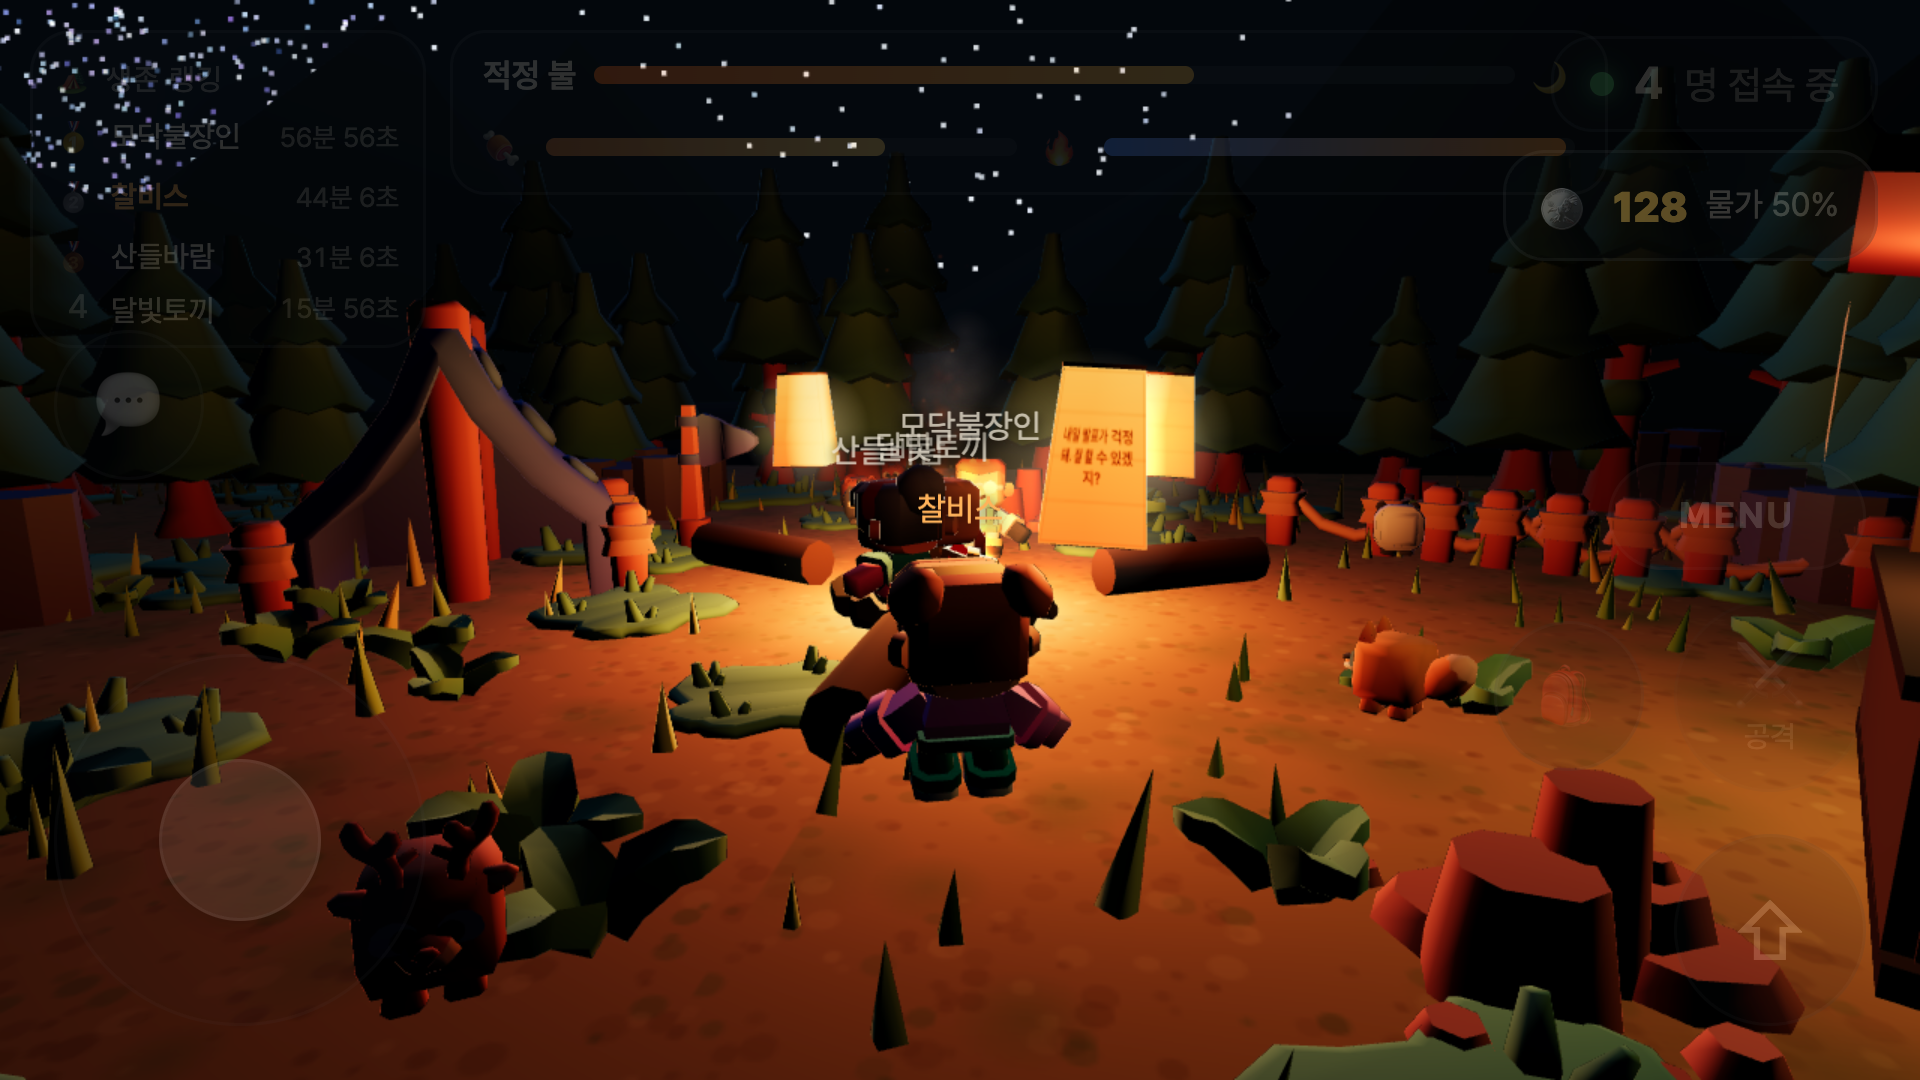
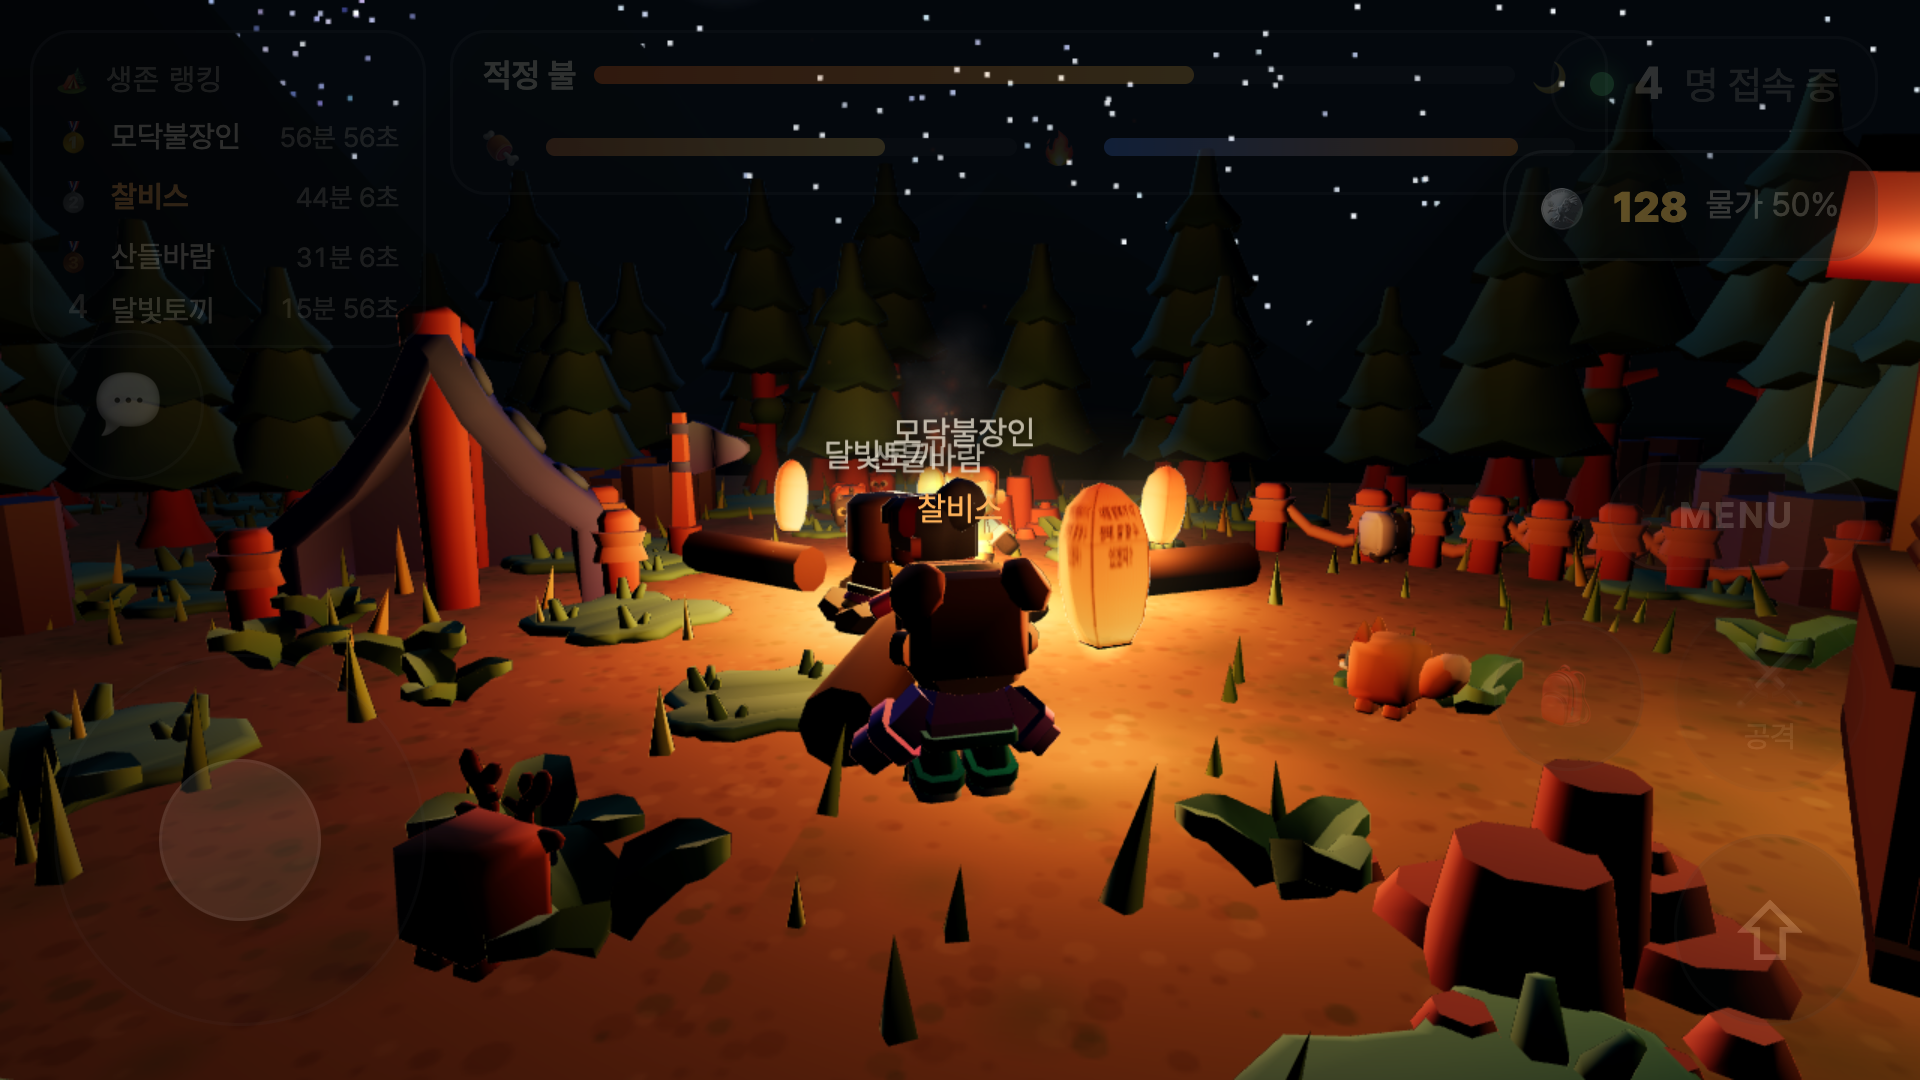
풍등을 핑시 풍등답게: 부푼 네모 윤곽·종이 결·대나무 살·연료 불꽃·들었다 띄우기·바람 흐름

diff --git a/index.html b/index.html
@@ -1348,62 +1348,88 @@ function burnWorry() {
   toast('고민을 풍등에 실어 하늘로 보냈어요 🏮 · 글은 나에게만 보여요', 3500);
 }
 
-// 풍등: 고민 두루마리를 띄우면 따뜻한 등 하나가 흔들리며 하늘로 올라간다(대만 핑시 풍등처럼). 글은 띄운 사람의 등에만 적힌다
+// 풍등: 고민 두루마리를 띄우면 대만 핑시 풍등처럼 네모진 종이 등이 손에서 부풀었다가 천천히 하늘로 올라간다. 글은 띄운 사람의 등에만 적힌다
 const lanterns = [];
+const LANTERN_WIND = new THREE.Vector2(0.09, -0.06); // 숲의 바람(x, z): 호수 쪽으로 살짝 흘러간다
 function lanternTexture(text) {
-  // 원통 UV 가 네 면에 둘러 감기므로 같은 그림을 네 칸에 반복해 어느 면에서 봐도 글이 통째로 보이게 한다
-  const W = 256, H = 320;
+  // 4각 원통(lathe 4분할) UV 가 네 면에 둘러 감기므로 같은 그림을 네 칸에 반복. 아래(불꽃 쪽)가 밝고 위로 갈수록 짙은 주황
+  const W = 256, H = 384;
   const c = document.createElement('canvas'); c.width = W * 4; c.height = H;
   const g = c.getContext('2d');
-  const grd = g.createLinearGradient(0, 0, 0, H); grd.addColorStop(0, '#ffd994'); grd.addColorStop(0.55, '#ffb24d'); grd.addColorStop(1, '#ff8a2a');
+  const grd = g.createLinearGradient(0, 0, 0, H);
+  grd.addColorStop(0, '#b8481a'); grd.addColorStop(0.35, '#e8782a'); grd.addColorStop(0.7, '#ffa43c'); grd.addColorStop(1, '#ffd98a');
   g.fillStyle = grd; g.fillRect(0, 0, W * 4, H);
+  // 종이 결(세로 줄무늬)
+  g.fillStyle = 'rgba(255,255,255,0.05)';
+  for (let x = 0; x < W * 4; x += 14) g.fillRect(x, 0, 6, H);
   let lines = [];
   if (text) {
-    g.font = 'bold 30px "Pretendard", system-ui, sans-serif';
+    g.font = 'bold 34px "Pretendard", system-ui, sans-serif';
     let cur = '';
-    for (const ch of text) { const t = cur + ch; if (ch === '\n' || g.measureText(t).width > 200) { if (cur) lines.push(cur); cur = ch === '\n' ? '' : ch; } else cur = t; }
+    for (const ch of text) { const t = cur + ch; if (ch === '\n' || g.measureText(t).width > 196) { if (cur) lines.push(cur); cur = ch === '\n' ? '' : ch; } else cur = t; }
     if (cur) lines.push(cur);
     lines = lines.slice(0, 6);
   }
   for (let q = 0; q < 4; q++) {
     const ox = q * W;
-    g.strokeStyle = 'rgba(120,60,10,0.22)'; g.lineWidth = 3; g.strokeRect(ox + 6, 6, W - 12, H - 12);
-    for (let i = 1; i < 4; i++) { g.beginPath(); g.moveTo(ox, i * 80); g.lineTo(ox + W, i * 80); g.stroke(); }
+    // 대나무 살: 면 모서리 세로 두 줄 + 위아래 테
+    g.fillStyle = 'rgba(70,32,8,0.55)';
+    g.fillRect(ox, 0, 7, H); g.fillRect(ox + W - 7, 0, 7, H);
+    g.fillRect(ox, H - 10, W, 10); g.fillRect(ox, 0, W, 6);
+    g.fillStyle = 'rgba(70,32,8,0.18)';
+    g.fillRect(ox, H * 0.5, W, 4);
     if (lines.length) {
-      g.fillStyle = '#5a2e0c'; g.textAlign = 'center'; g.textBaseline = 'middle';
-      const y0 = H / 2 - (lines.length - 1) * 19;
-      lines.forEach((l, i) => g.fillText(l, ox + W / 2, y0 + i * 38));
+      g.fillStyle = 'rgba(52,20,6,0.88)'; g.textAlign = 'center'; g.textBaseline = 'middle';
+      const y0 = H * 0.46 - (lines.length - 1) * 21;
+      lines.forEach((l, i) => g.fillText(l, ox + W / 2, y0 + i * 42));
     }
   }
   const tex = new THREE.CanvasTexture(c); tex.colorSpace = THREE.SRGBColorSpace; return tex;
 }
+const lanternProfile = [[0.17, 0], [0.26, 0.16], [0.305, 0.42], [0.3, 0.7], [0.24, 0.9], [0.12, 1.02], [0, 1.06]].map(([r, y]) => new THREE.Vector2(r, y));
 function launchLantern(x, z, text) {
   const tex = lanternTexture(text);
   const g = new THREE.Group();
-  const body = new THREE.Mesh(new THREE.CylinderGeometry(0.2, 0.27, 0.62, 4, 1, true), new THREE.MeshStandardMaterial({ map: tex, emissive: 0xffa040, emissiveMap: tex, emissiveIntensity: 1.1, side: THREE.DoubleSide, transparent: true, roughness: 0.9 }));
-  body.rotation.y = Math.PI / 4; body.position.y = 0.31; g.add(body);
-  const cap = new THREE.Mesh(new THREE.CylinderGeometry(0.2, 0.2, 0.03, 4), mat(0x8a5a2b)); cap.rotation.y = Math.PI / 4; cap.position.y = 0.62; g.add(cap);
-  const ring = new THREE.Mesh(new THREE.TorusGeometry(0.2, 0.012, 6, 4), mat(0x6b4a2b)); ring.rotation.x = Math.PI / 2; ring.rotation.z = Math.PI / 4; g.add(ring);
-  const flame = new THREE.Sprite(new THREE.SpriteMaterial({ map: softTex, color: 0xffb060, transparent: true, opacity: 0.8, blending: THREE.AdditiveBlending, depthWrite: false }));
-  flame.scale.setScalar(0.9); flame.position.y = 0.25; g.add(flame);
-  const light = new THREE.PointLight(0xffa050, 2.5, 7, 2); light.position.y = 0.3; g.add(light);
-  g.scale.setScalar(1.35);
-  g.position.set(x, 1.1, z);
+  const paper = new THREE.MeshStandardMaterial({ map: tex, emissive: 0xffb866, emissiveMap: tex, emissiveIntensity: 0.72, side: THREE.DoubleSide, transparent: true, opacity: 0.97, roughness: 0.95 });
+  const body = new THREE.Mesh(new THREE.LatheGeometry(lanternProfile, 4), paper);
+  body.rotation.y = Math.PI / 4; g.add(body);
+  const frameMat = mat(0x3a2412);
+  const base = new THREE.Mesh(new THREE.TorusGeometry(0.17, 0.009, 5, 4), frameMat); base.rotation.x = Math.PI / 2; base.rotation.z = Math.PI / 4; g.add(base);
+  for (const r of [0, Math.PI / 2]) { const w = new THREE.Mesh(new THREE.BoxGeometry(0.34, 0.007, 0.007), frameMat); w.rotation.y = r + Math.PI / 4; w.position.y = 0.004; g.add(w); }
+  const fuel = new THREE.Mesh(new THREE.BoxGeometry(0.06, 0.035, 0.06), mat(0x1e0f06)); fuel.position.y = 0.022; g.add(fuel);
+  const flame = new THREE.Sprite(new THREE.SpriteMaterial({ map: softTex, color: 0xffd080, transparent: true, opacity: 0.95, blending: THREE.AdditiveBlending, depthWrite: false }));
+  flame.scale.set(0.5, 0.7, 1); flame.position.y = 0.16; g.add(flame);
+  const halo = new THREE.Sprite(new THREE.SpriteMaterial({ map: softTex, color: 0xff9a3a, transparent: true, opacity: 0.32, blending: THREE.AdditiveBlending, depthWrite: false }));
+  halo.scale.setScalar(2.0); halo.position.y = 0.55; g.add(halo);
+  const light = new THREE.PointLight(0xffa050, 3.2, 9, 2); light.position.y = 0.35; g.add(light);
+  g.scale.setScalar(0.5); g.position.set(x, 0.5, z);
+  g.rotation.y = Math.random() * 6.28;
   scene.add(g);
-  lanterns.push({ g, body, flame, light, tex, t: 0, life: 18, vx: (Math.random() - 0.5) * 0.25, vz: (Math.random() - 0.5) * 0.25, seed: Math.random() * 6.28 });
+  lanterns.push({ g, paper, flame, halo, light, tex, t: 0, life: 28, y: 0.5, vy: 0, seed: Math.random() * 6.28, geo: body.geometry });
 }
 function updateLanterns(dt) {
   for (let i = lanterns.length - 1; i >= 0; i--) {
     const L = lanterns[i]; L.t += dt;
-    const up = Math.min(1.3, 0.3 + L.t * 0.2);
-    L.g.position.y += up * dt;
-    L.g.position.x += (L.vx + Math.sin(state.time * 0.9 + L.seed) * 0.12) * dt;
-    L.g.position.z += (L.vz + Math.cos(state.time * 0.7 + L.seed) * 0.12) * dt;
-    L.g.rotation.y += dt * 0.25; L.g.rotation.z = Math.sin(state.time * 1.3 + L.seed) * 0.06;
-    const flick = 0.85 + Math.sin(state.time * 11 + L.seed) * 0.15;
-    const fade = L.t > L.life - 4 ? Math.max(0, (L.life - L.t) / 4) : 1;
-    L.light.intensity = 2.5 * flick * fade; L.flame.material.opacity = 0.7 * flick * fade; L.body.material.opacity = fade;
-    if (L.t >= L.life) { scene.remove(L.g); L.tex.dispose(); L.body.material.dispose(); L.body.geometry.dispose(); lanterns.splice(i, 1); }
+    const HOLD = 1.6; // 손에 들고 부풀리는 시간
+    const inflate = Math.min(1, L.t / HOLD), ease = 1 - Math.pow(1 - inflate, 3);
+    L.g.scale.setScalar(0.5 + 0.9 * ease);
+    if (L.t < HOLD) { L.y = 0.5 + ease * 0.35; }
+    else { L.vy = Math.min(1.1, L.vy + dt * 0.28); L.y += L.vy * dt; }
+    L.g.position.y = L.y;
+    const wind = 0.5 + Math.min(1.5, L.y * 0.12);
+    const drift = L.t > HOLD ? dt * wind : 0;
+    L.g.position.x += (LANTERN_WIND.x + Math.sin(state.time * 0.8 + L.seed) * 0.08) * drift;
+    L.g.position.z += (LANTERN_WIND.y + Math.cos(state.time * 0.6 + L.seed) * 0.08) * drift;
+    L.g.rotation.x = Math.sin(L.t * 1.1 + L.seed) * 0.08;
+    L.g.rotation.z = Math.cos(L.t * 0.9 + L.seed) * 0.08;
+    L.g.rotation.y += dt * 0.12;
+    const flick = 0.82 + Math.sin(state.time * 13 + L.seed) * 0.12 + Math.sin(state.time * 31 + L.seed * 2) * 0.06;
+    const fade = L.t > L.life - 5 ? Math.max(0, (L.life - L.t) / 5) : 1;
+    L.flame.material.opacity = 0.95 * flick * fade; L.flame.scale.set(0.5 * flick, 0.7 * flick, 1);
+    L.halo.material.opacity = 0.22 * flick * fade;
+    L.light.intensity = 3.2 * flick * fade;
+    L.paper.opacity = 0.97 * fade; L.paper.emissiveIntensity = 0.72 * (0.88 + 0.12 * flick);
+    if (L.t >= L.life) { scene.remove(L.g); L.tex.dispose(); L.paper.dispose(); L.geo.dispose(); lanterns.splice(i, 1); }
   }
 }
 

diff --git a/_tools/shoot.js b/_tools/shoot.js
@@ -108,14 +108,15 @@ const SCENES = {
     ${lookAt(0, 0)} S.cam.tilt = 0.78; S.cam.dist = S.cam.distTarget = 6;
     setTimeout(() => window.__friends[0].say('오늘도 살아남자 💪'), 900);
     document.body.classList.remove('bag-open'); return 'ok'` },
-  7: { name: '07_lantern', hour: 21.8, wait: 3200, code: `
+  7: { name: '07_lantern', hour: 21.8, wait: 5200, code: `
     const S = window.__shot, M = Math; S.setHour(21.8); S.state.aurora = 0; S.setExposure(1.3);
     const s0 = S.SEATS[0]; S.me.seat = -1; S.me.place(s0.x * 1.4, s0.z * 1.4); S.me.target.copy(S.me.pos);
     ${lookAt(0, 0)} S.cam.tilt = 0.22; S.cam.dist = S.cam.distTarget = 4.6;
     document.body.classList.remove('bag-open');
-    S.launchLantern(S.me.pos.x + 0.6, S.me.pos.z - 0.4, '내일 발표가 걱정돼. 잘 할 수 있겠지?');
-    setTimeout(() => S.launchLantern(-1.5, -1.0, null), 400);
-    setTimeout(() => S.launchLantern(1.8, -0.6, null), 900);
+    S.launchLantern(S.me.pos.x + 0.7, S.me.pos.z - 0.5, '내일 발표가 걱정돼. 잘 할 수 있겠지?');
+    setTimeout(() => S.launchLantern(-1.6, -1.0, null), 1500);
+    setTimeout(() => S.launchLantern(1.9, -0.8, null), 2600);
+    setTimeout(() => S.launchLantern(-0.4, -2.2, null), 3400);
     return 'ok'` }
 };
 
